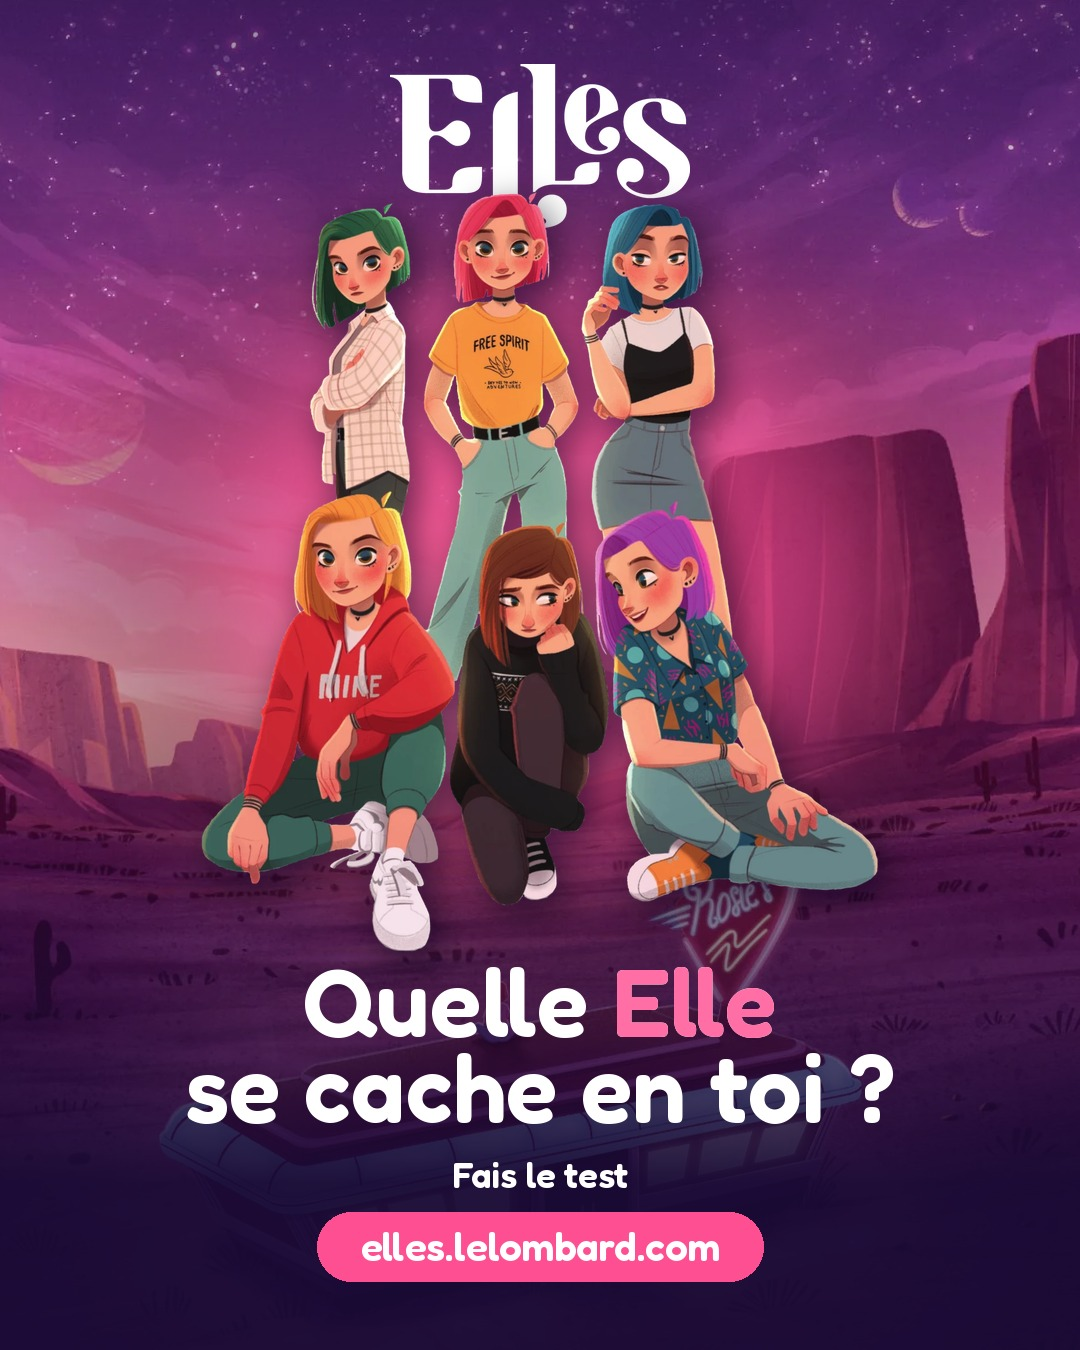
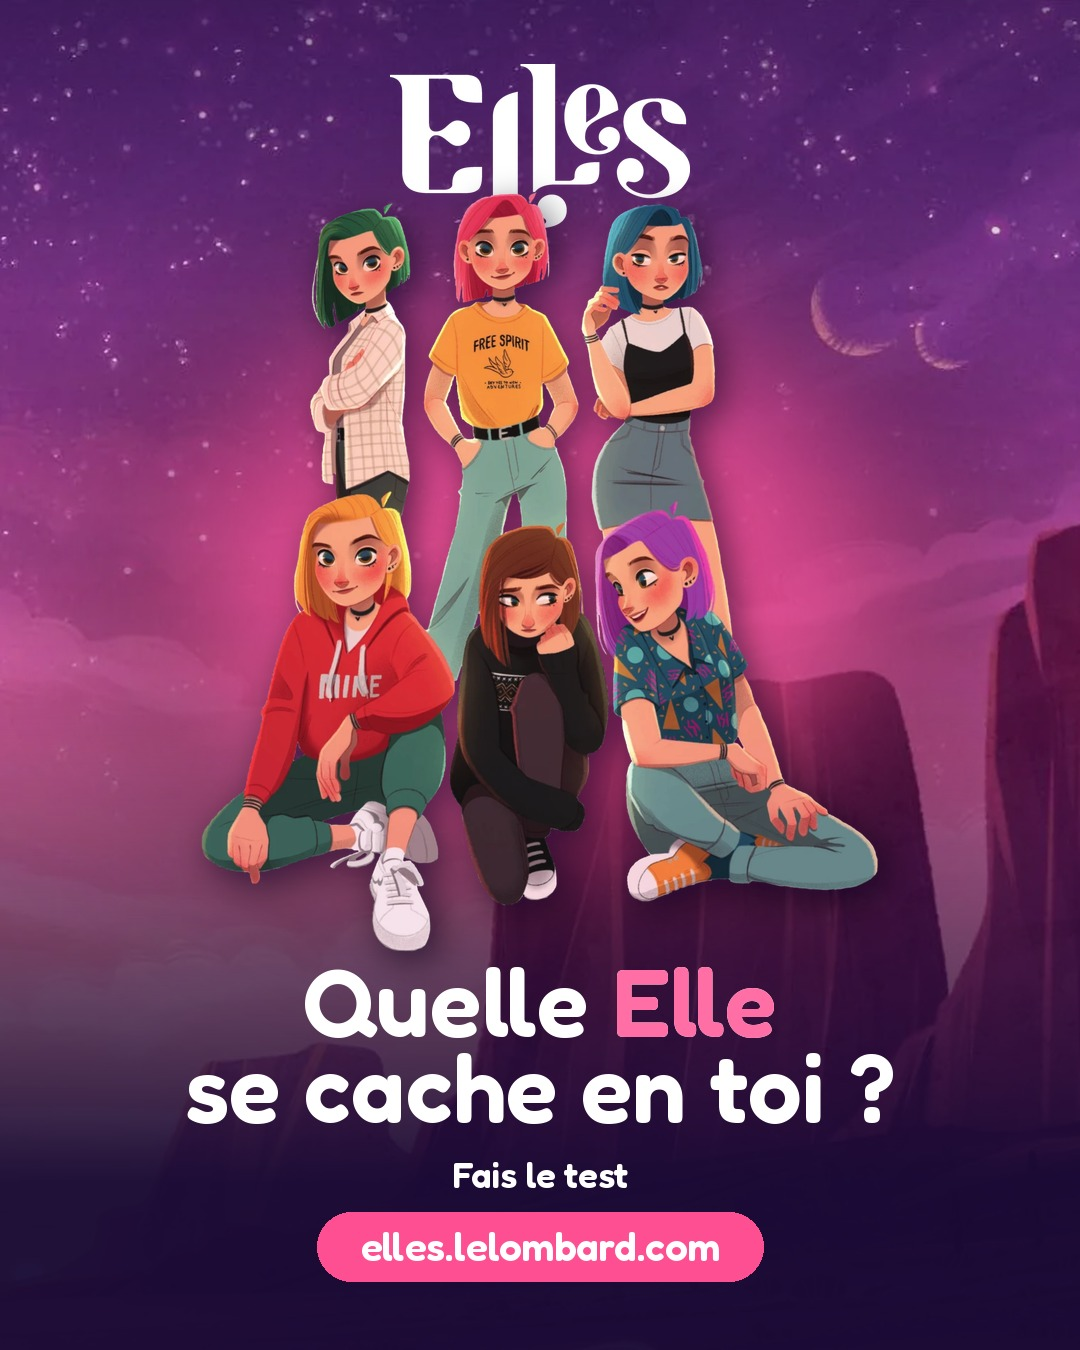
Image unique : fond recadré sans le diner
Claude-Session: https://claude.ai/code/session_01JYCcVS9zgu5A4NHUxSrqd3

diff --git a/elles-quiz/tools/make_social.py b/elles-quiz/tools/make_social.py
@@ -21,6 +21,12 @@ def cover(path, focus=(.5, .5)):
     x = round((im.width - W) * focus[0]); y = round((im.height - H) * focus[1])
     return im.crop((x, y, x + W, y + H)).convert("RGBA")
 
+def cover_top(path, frac, fx=.5):
+    """ne garde que le haut du décor (ciel et canyon), recadré : le diner reste hors champ"""
+    im = Image.open(path).convert("RGB"); im = im.crop((0, 0, im.width, round(im.height * frac)))
+    s = max(W / im.width, H / im.height); im = im.resize((round(im.width * s), round(im.height * s)), Image.LANCZOS)
+    x = round((im.width - W) * fx); return im.crop((x, im.height - H, x + W, im.height)).convert("RGBA")
+
 def veil(im, top=120, bottom=235, start=.45):
     """voile sombre en haut (logo) et en bas (texte)"""
     ov = Image.new("RGBA", (W, H), (0, 0, 0, 0)); px = ov.load()
@@ -68,8 +74,9 @@ def title(d, y, size=104, lead=1.08):
     d.text((x, y), "Elle", font=f, fill=(255, 111, 166))
     center(d, y + size * lead, f"se cache en toi{NB}?", f, (255, 255, 255))
 
-def group_slide(name, cta, with_dots=None, sub=None, gy=235, lead=1.08):
-    im = veil(cover("img/bg-rosies-nuit.webp", (.5, .25)), bottom=245, start=.5)
+def group_slide(name, cta, with_dots=None, sub=None, gy=235, lead=1.08, no_diner=False):
+    bg = cover_top("img/bg-rosies-nuit.webp", .64, .78) if no_diner else cover("img/bg-rosies-nuit.webp", (.5, .25))
+    im = veil(bg, bottom=245, start=.5)
     g = fit(Image.open("img/elles-groupe.webp").convert("RGBA"), 900, 760)
     halo(im, (255, 79, 147), (140, 240, 940, 900)); logo(im); paste(im, g, (W - g.width) // 2, gy)   # le groupe passe devant le logo
     d = ImageDraw.Draw(im, "RGBA")
@@ -103,4 +110,4 @@ center(d, 1222, f"Tome 4 · Intemporelle(s) · en librairie", F(nun, 32), (255, 
 im.convert("RGB").save("social/carrousel_8_fais-le-test.jpg", quality=92); print(8)
 
 # ---------- Image unique
-group_slide("photo_unique.jpg", "elles.lelombard.com", sub="Fais le test", gy=192, lead=.9)
+group_slide("photo_unique.jpg", "elles.lelombard.com", sub="Fais le test", gy=192, lead=.9, no_diner=True)
